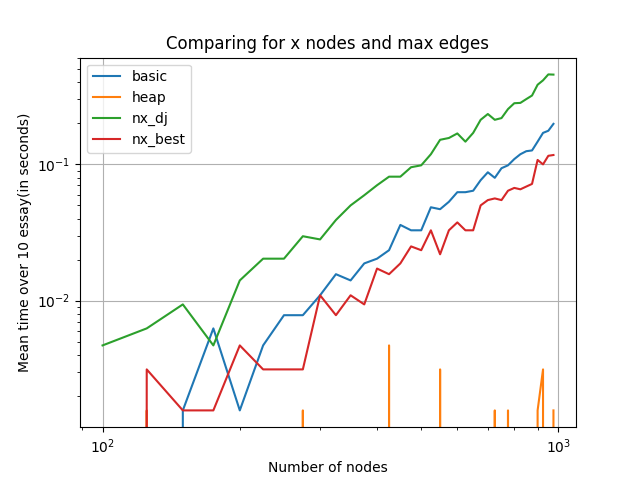
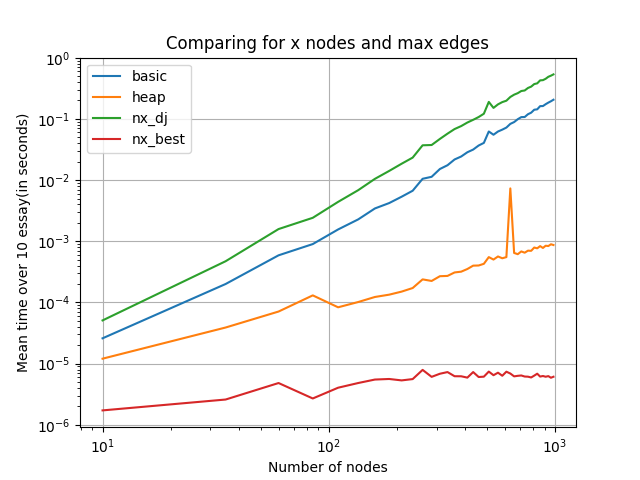
result

diff --git a/test/test_dijkstra_opti.py b/test/test_dijkstra_opti.py
@@ -60,7 +60,7 @@ def dijkstra_opti_tests_mean(number_of_nodes: int, nb_of_try: int = 10) -> None:
     time_nx_array_dj = []
     time_nx_array_best = []
     n_array = []
-    for i in range(100, number_of_nodes, 25):
+    for i in range(10, number_of_nodes, 25):
         progressbar(i, number_of_nodes)
         n_array.append(i)
 
@@ -110,7 +110,7 @@ def dijkstra_opti_tests_41(number_of_nodes: int, nb_of_try: int = 10) -> None:
     alpha = round(rand.random(), 3)
     while 5 > alpha * (5 * 4) // 2:
         alpha = round(rand.random(), 3)
-    for i in range(100, number_of_nodes, 25):
+    for i in range(10, number_of_nodes, 25):
         progressbar(i, number_of_nodes)
         n_array.append(i)
 
@@ -206,7 +206,7 @@ def dijkstra_opti_tests_43(number_of_node: int, nb_of_try: int = 10) -> None:
     n_array = []
     # Choosing alpha :
     alpha = 0.75
-    for i in range(100, number_of_node, 25):
+    for i in range(10, number_of_node, 25):
         progressbar(i, number_of_node)
         n_array.append(i)
 
@@ -233,7 +233,7 @@ def dijkstra_opti_tests_43(number_of_node: int, nb_of_try: int = 10) -> None:
     plt.plot(n_array, time_med, label="tmed")
     plt.xlabel("Number of nodes")
     plt.ylabel(f"Time over {nb_of_try} essay(in seconds)")
-    plt.title(f"For alpha = {alpha}")
+    plt.title(f"For alpha = {alpha} with heap")
     plt.legend()
     plt.grid(True)
     plt.xscale("log")

diff --git a/test/test_graph.py b/test/test_graph.py
@@ -9,6 +9,7 @@ sys.path.insert(0, parent_dir)
 import graph_generation as randgraph
 from source import graph as grp
 
+
 class MyTestCase(unittest.TestCase):
     def setUp(self) -> None:
         self.graph = grp.DirectedGraph()
